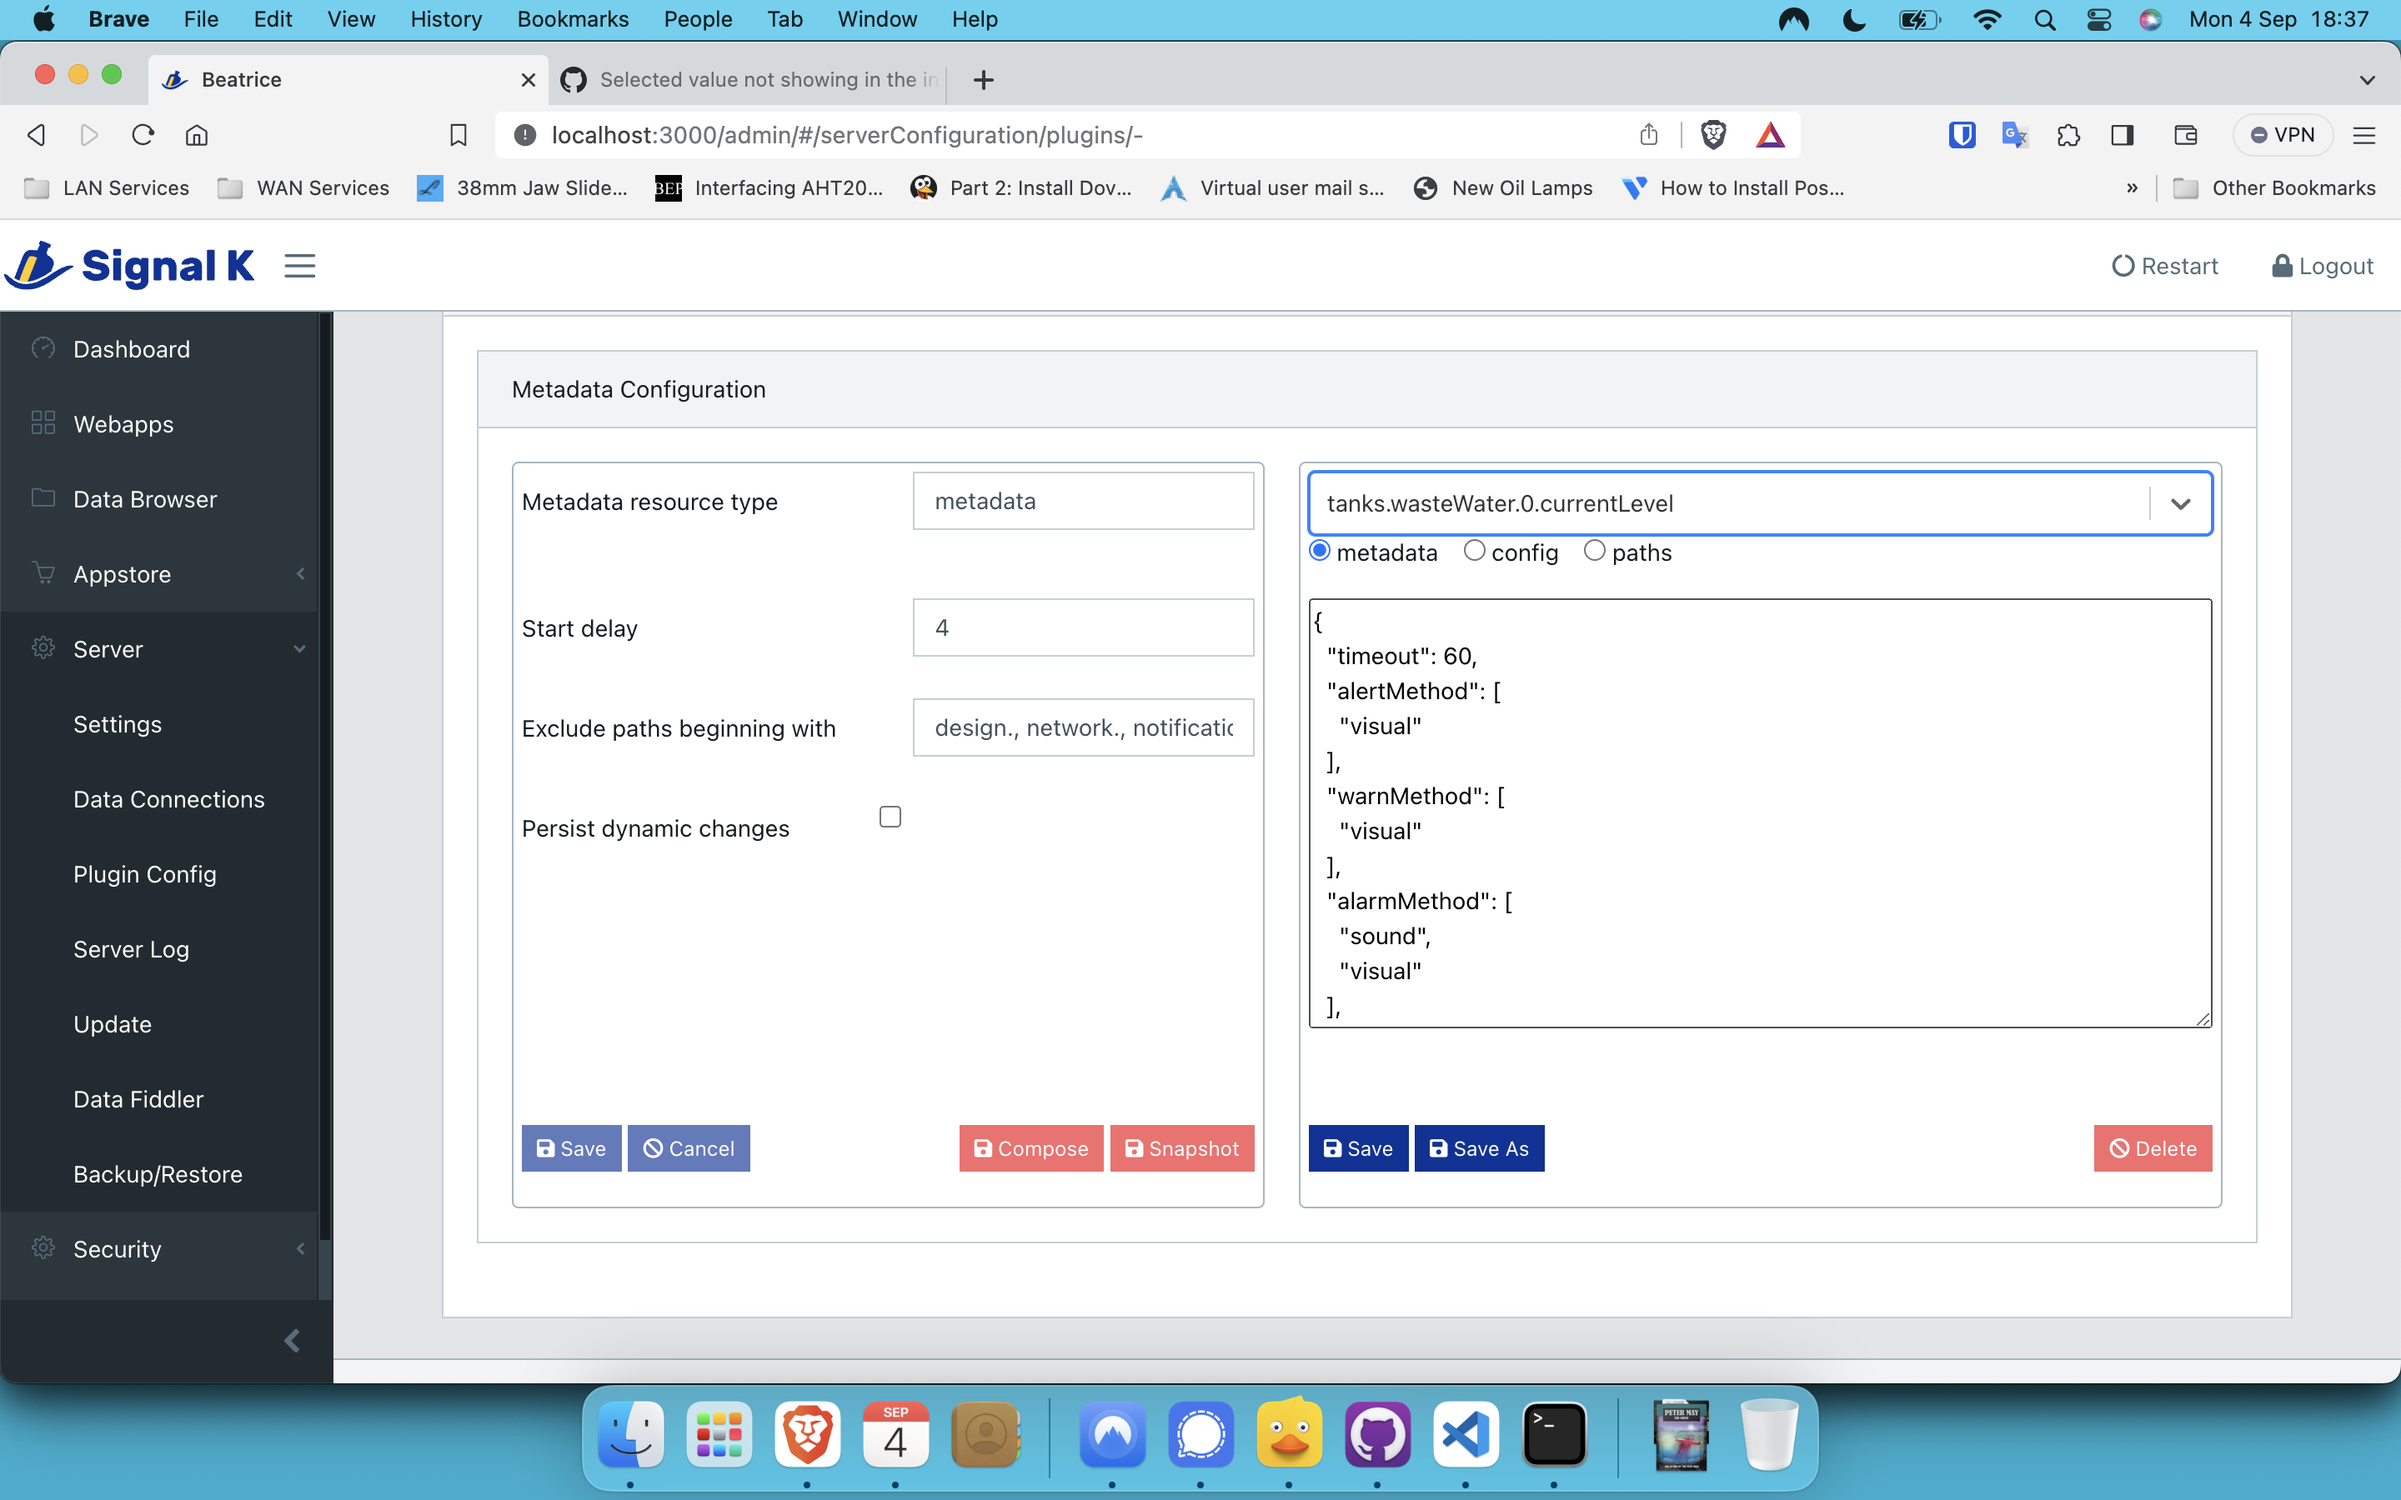
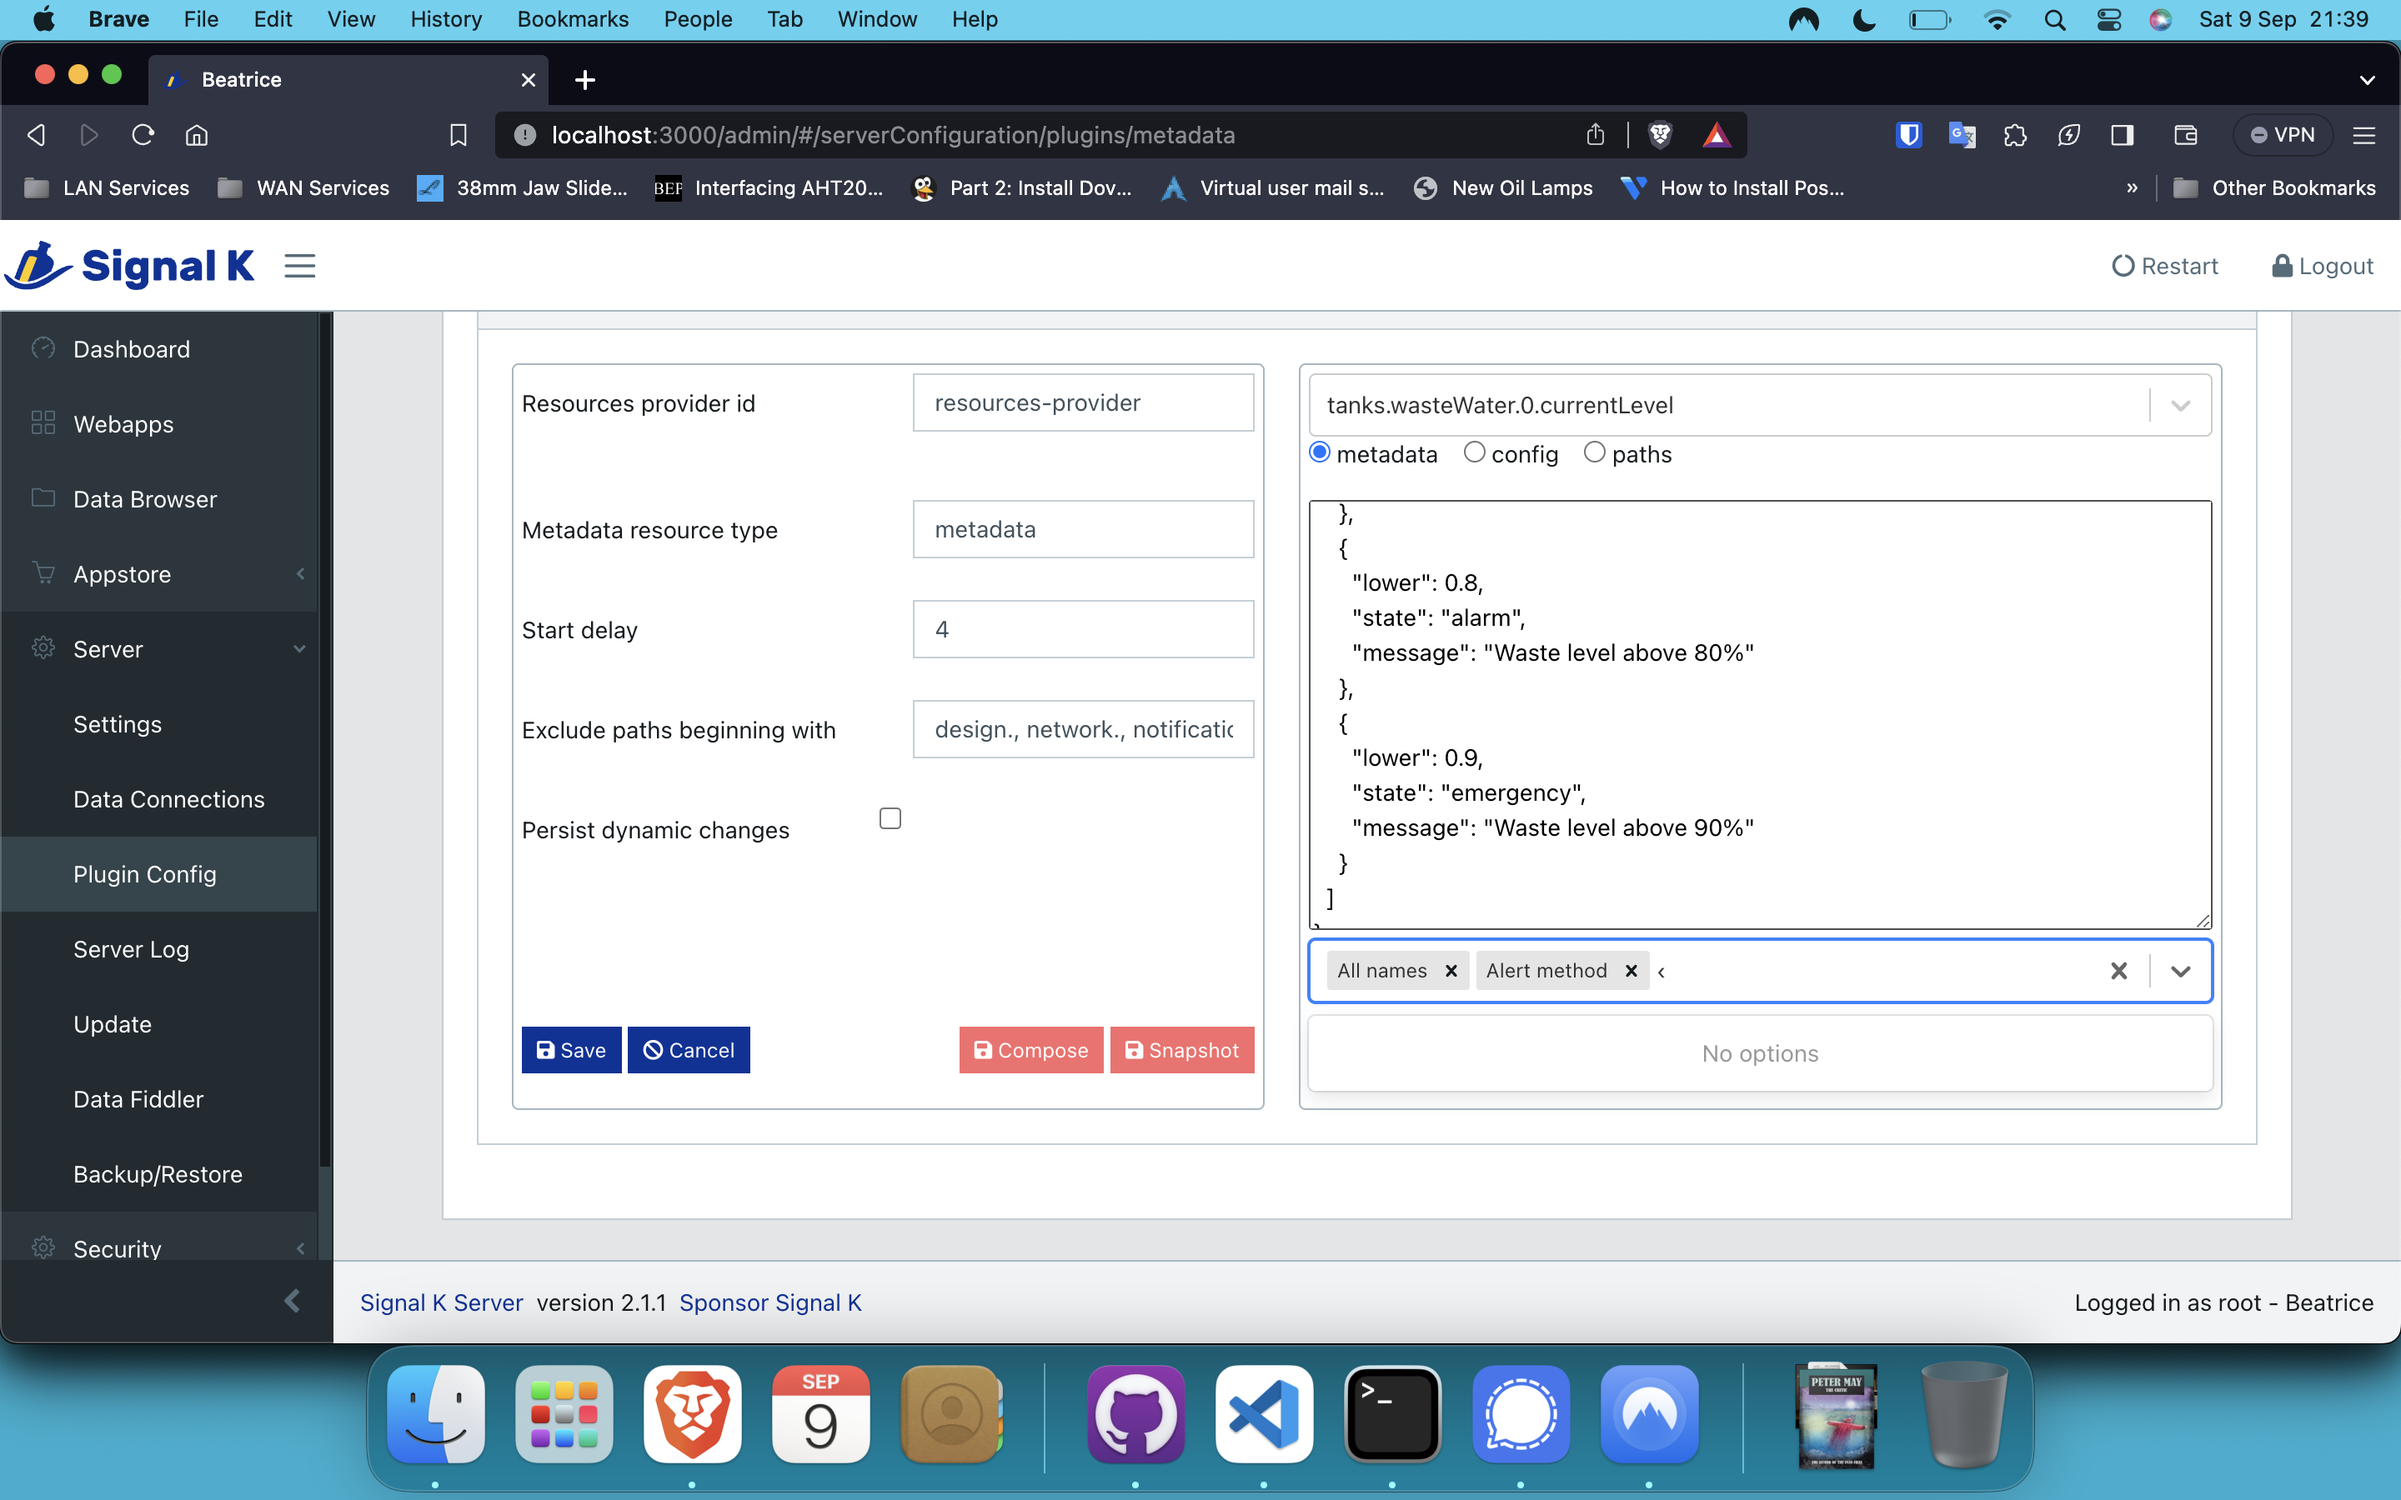
Tidy up README

diff --git a/index.js b/index.js
@@ -232,6 +232,7 @@ module.exports = function (app) {
     // Make a plugin.options object by merging options with defaults.
     // Having it at plugin level makes it globally available.
     plugin.options = {};
+    plugin.options.resourcesProviderId = (options.resourcesProviderId || plugin.schema.properties.resourcesProviderId.default);
     plugin.options.startDelay = (options.startDelay || plugin.schema.properties.startDelay.default);
     plugin.options.resourceType = (options.resourceType || plugin.schema.properties.resourceType.default);
     plugin.options.excludePaths = (options.excludePaths || plugin.schema.properties.excludePaths.default);
